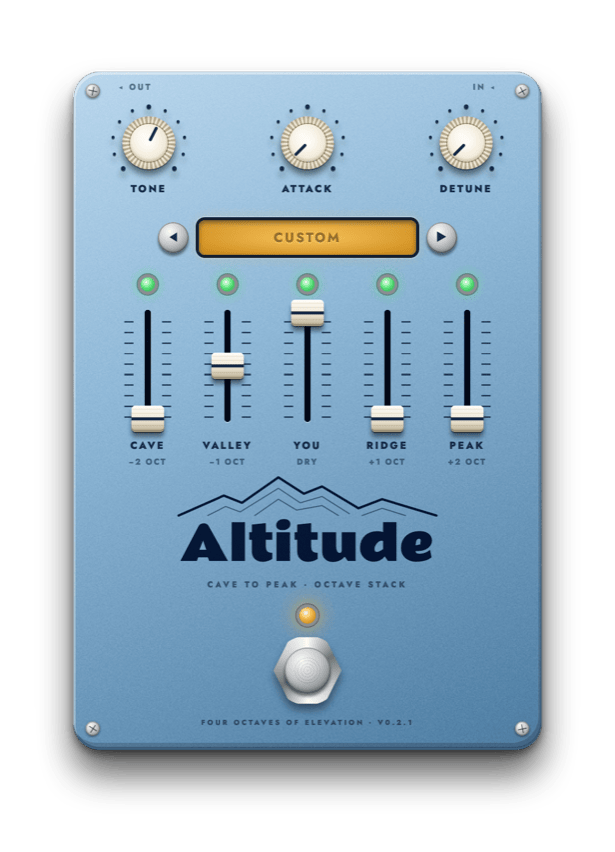
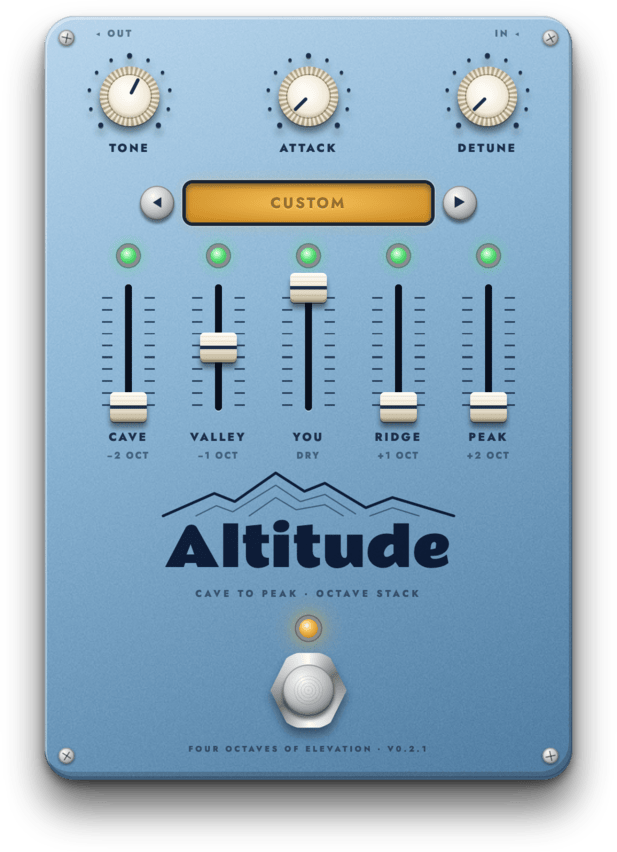
Crop screenshots to the object and its shadow
The margin added for the drop shadow made the screenshot taller than
the window, so after scaling the object filled less of the image and
sat above centre. The script now trims the transparent edges with
ImageMagick before scaling, and the workflow installs it.

Claude-Session: https://claude.ai/code/session_01M6vpxR81VaPY9T4oUmhAa4

diff --git a/.claude/skills/screenshot/SKILL.md b/.claude/skills/screenshot/SKILL.md
@@ -14,13 +14,14 @@ the `alt` text gets updated.
 1. Run `cargo test` so `ui/mock.json` is known to match the plugin's
    parameters and defaults, and the shot shows the real controls at
    their defaults. If it's stale, rewrite it with `BLESS=1 cargo test`.
-2. Run `scripts/screenshot.sh`. It needs `pngquant`
-   (`brew install pngquant`). It renders the page against its mock in
-   WebKit at 2x and `PAGE.size`, with the version from `Cargo.toml`.
-   It drops the `html` and `body` backgrounds, so the object sits on
-   transparency with its shadow. Then it writes `docs/<name>.png` 852 px
-   tall, quantized with pngquant, and sets the README `<img>` `width` to
-   half its pixel width. An older `docs/<name>.jpg` is deleted and the
+2. Run `scripts/screenshot.sh`. It needs pngquant and ImageMagick
+   (`brew install pngquant imagemagick`). It renders the page against
+   its mock in WebKit at 2x and `PAGE.size`, with the version from
+   `Cargo.toml`, plus a margin for the drop shadow. It drops the `html`
+   and `body` backgrounds, so the object sits on transparency with its
+   shadow. Then it crops to what's visible, writes `docs/<name>.png`
+   852 px tall, quantized with pngquant, and sets the README `<img>`
+   `width` to half its pixel width. An older `docs/<name>.jpg` is deleted and the
    README `<img>` pointed at the PNG.
 3. Look at the PNG. If fonts haven't loaded, a knob is mid-glide or the
    mock's values are off, fix that and rerun it. To see the

diff --git a/README.md b/README.md
@@ -1,6 +1,6 @@
 # Altitude
 
-<img src="docs/altitude.png" width="307" alt="Altitude, a powder-blue stompbox printed in navy, with ivory Tone, Attack and Detune knobs, an amber preset window between chrome arrow buttons, five slide faders with ivory caps (Cave, Valley, You, Ridge, Peak) under green switch lights, a printed mountain range over the Altitude wordmark, and a chrome footswitch under an amber LED">
+<img src="docs/altitude.png" width="308" alt="Altitude, a powder-blue stompbox printed in navy, with ivory Tone, Attack and Detune knobs, an amber preset window between chrome arrow buttons, five slide faders with ivory caps (Cave, Valley, You, Ridge, Peak) under green switch lights, a printed mountain range over the Altitude wordmark, and a chrome footswitch under an amber LED">
 
 Stacked octaves for guitar, bass, synths or anything else, as a VST3 and
 CLAP plugin for macOS and Windows. Five floors mix two octaves down, one
